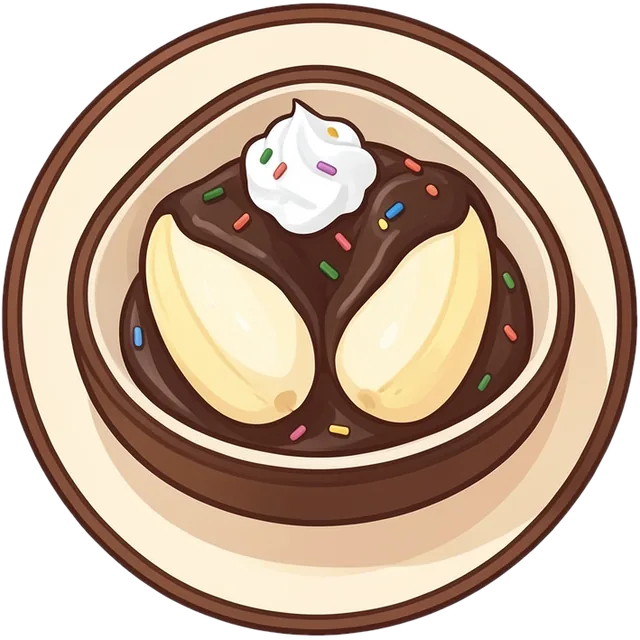
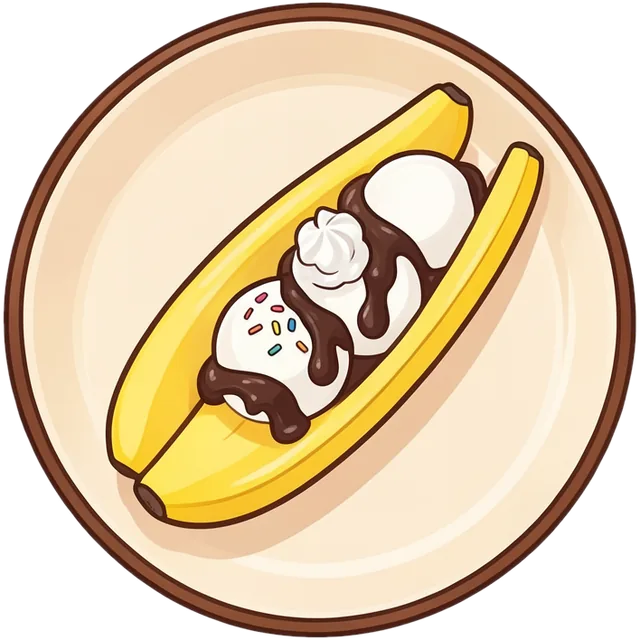
Kogebog: banansplit tegnet om, fingeraftryk for filer og lyd
Bananerne lignede ikke bananer på første tegning. LYD og INDHOLD i sw.js
passer nu til de 151 billeder og den nye stemme. Versionsnummeret hæves,
når browsertesten og gennemgangen er færdige.

diff --git a/sw.js b/sw.js
@@ -9,9 +9,9 @@
    Svarer nettet ikke inden for HENT_MS (4 s), kommer en opskrift (også index.json) fra cachen, og nettets svar gemmes
    til næste gang. De næste LANGSOM_MS (30 s) tager opskrifterne cachen med det samme (code review U3 og F2, 23-10). */
 const PRAEFIKS = 'kog-';
-const INDHOLD = '15bfb194d979e4c0'; // sha256 (16 tegn) af FILER — sæt den værdi, test/test-sw.js viser i fejlbeskeden
+const INDHOLD = '631de416d7ee2bd7'; // sha256 (16 tegn) af FILER — sæt den værdi, test/test-sw.js viser i fejlbeskeden
 const VERSION = PRAEFIKS + INDHOLD;
-const LYD = '9a957fc92aa0da8d'; // sha256 (16 tegn) af lydfilerne (lyd/*/*.mp3) — sæt den værdi, test/test-sw.js viser
+const LYD = '9b43a0862f935e29'; // sha256 (16 tegn) af lydfilerne (lyd/*/*.mp3) — sæt den værdi, test/test-sw.js viser
 const LYD_CACHE = PRAEFIKS + 'lyd-' + LYD;
 const HENT_MS = 4000; // så længe venter en lydfil (før iPad-stemmen tager over) eller en opskrift (før cachen) på nettet
 const LANGSOM_MS = 30000; // så længe tager opskrifterne cachen med det samme, efter at nettet ikke svarede inden for HENT_MS
